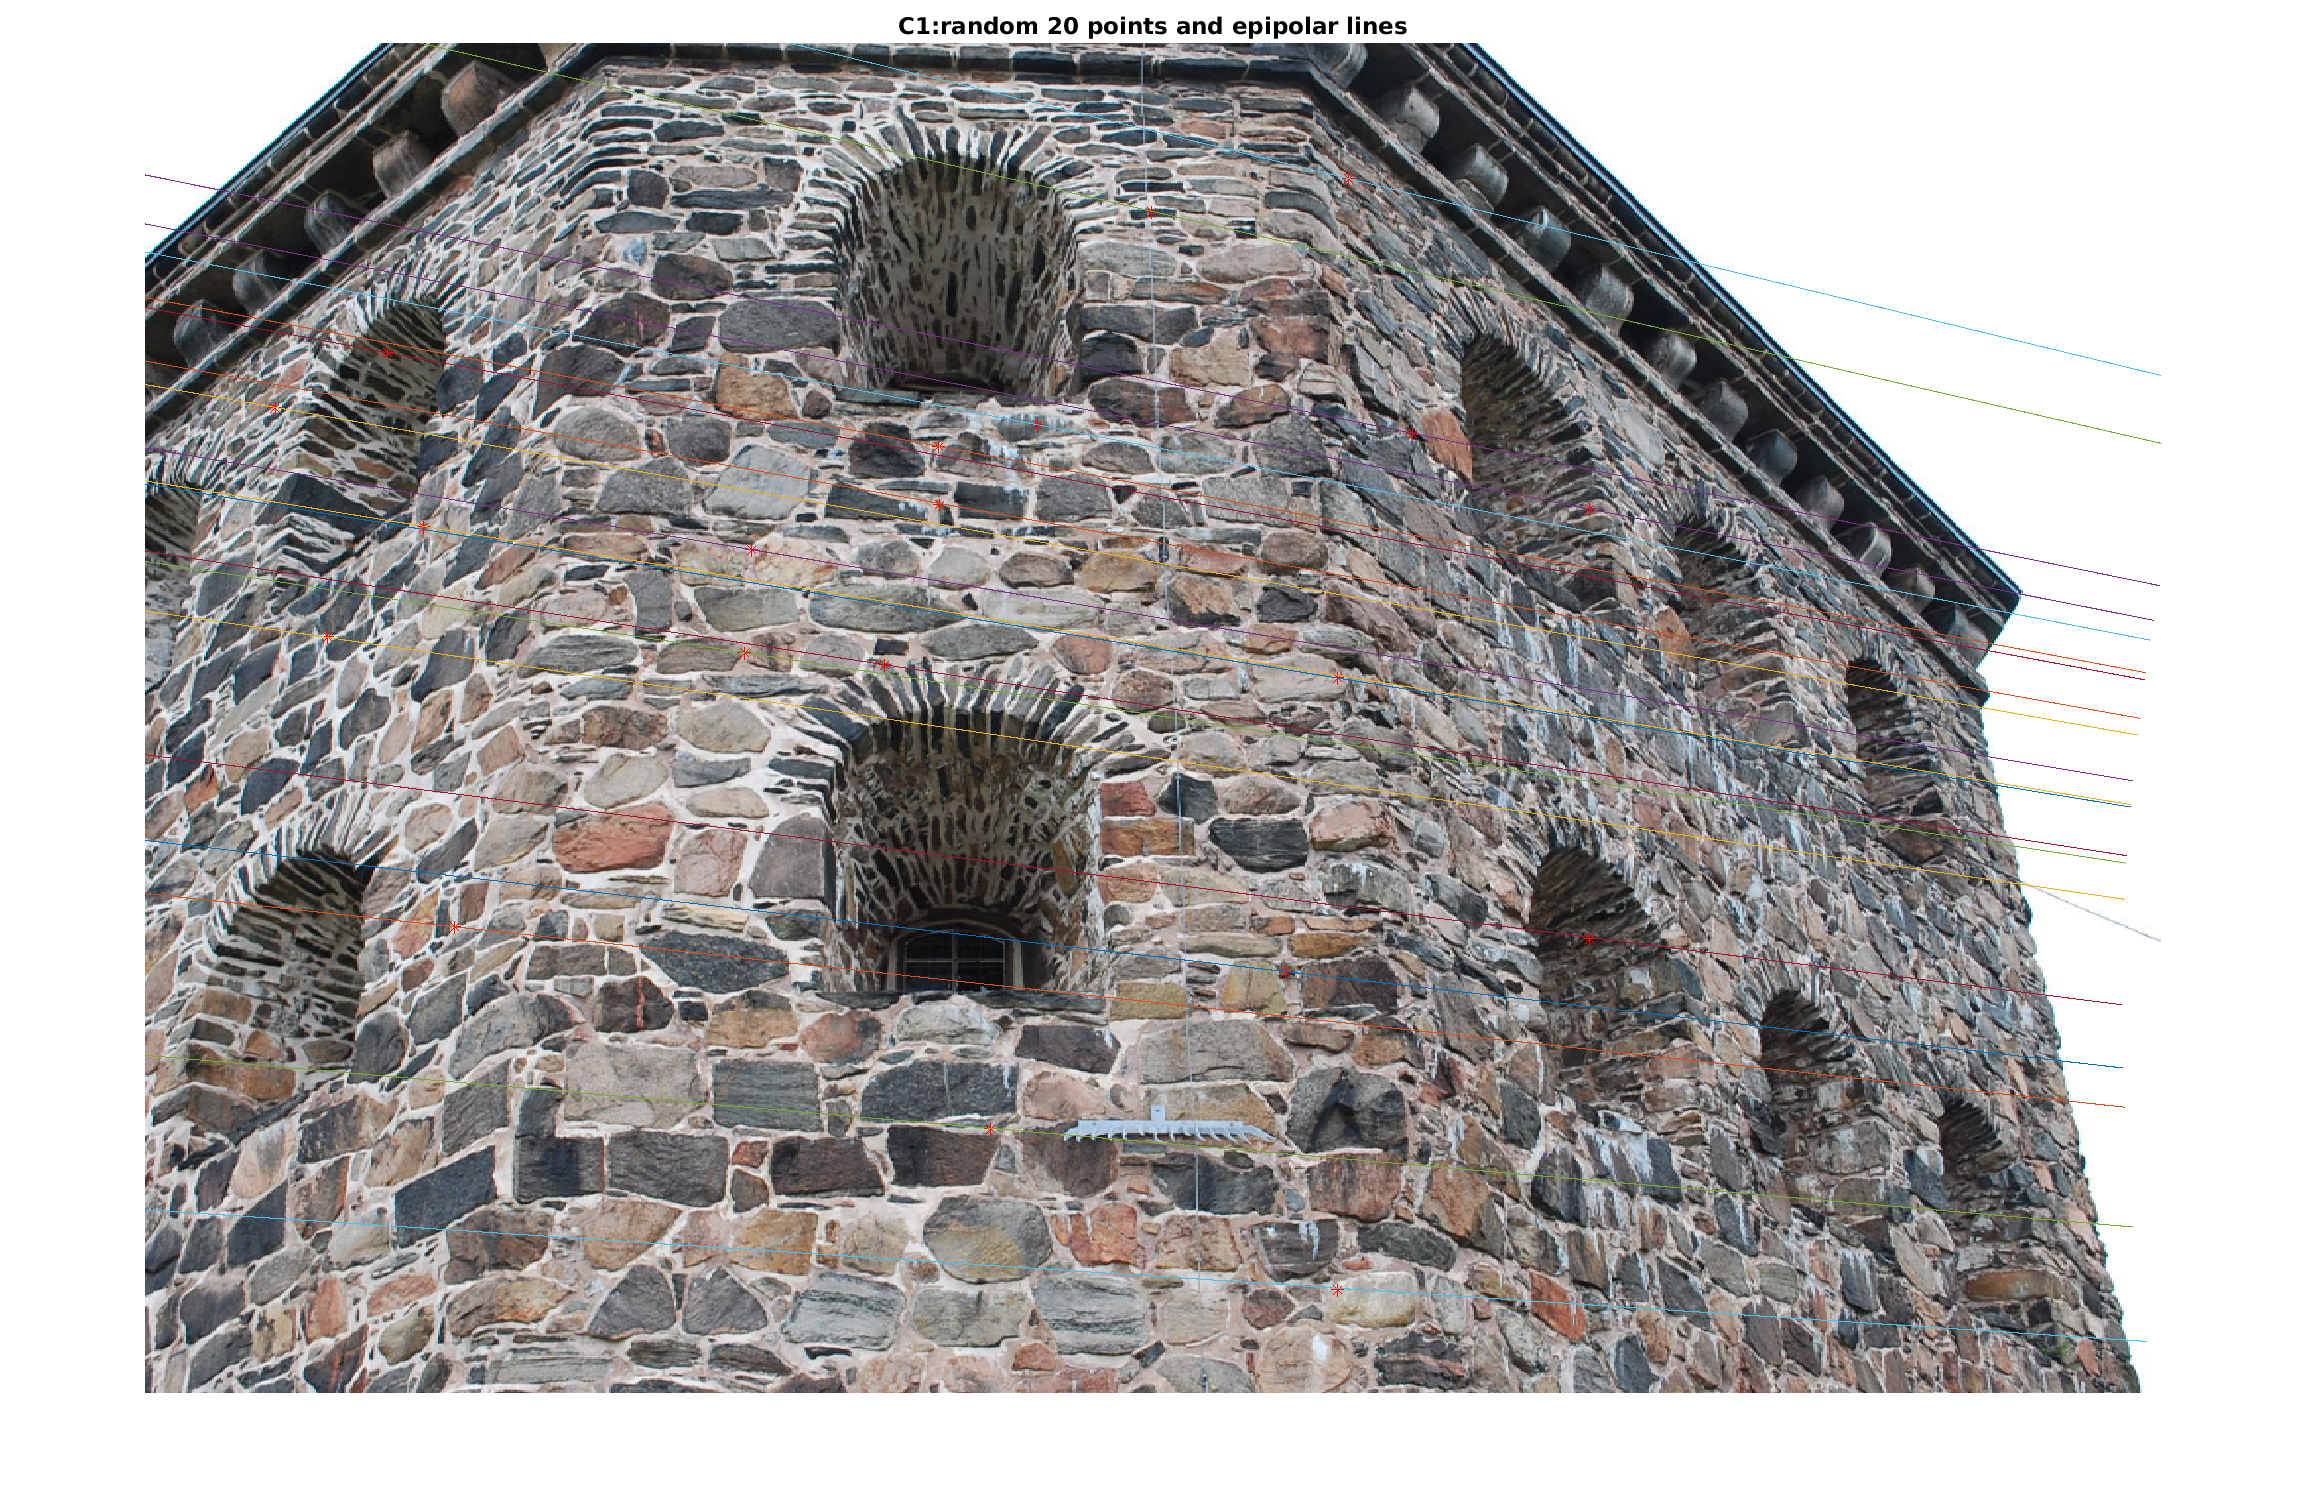
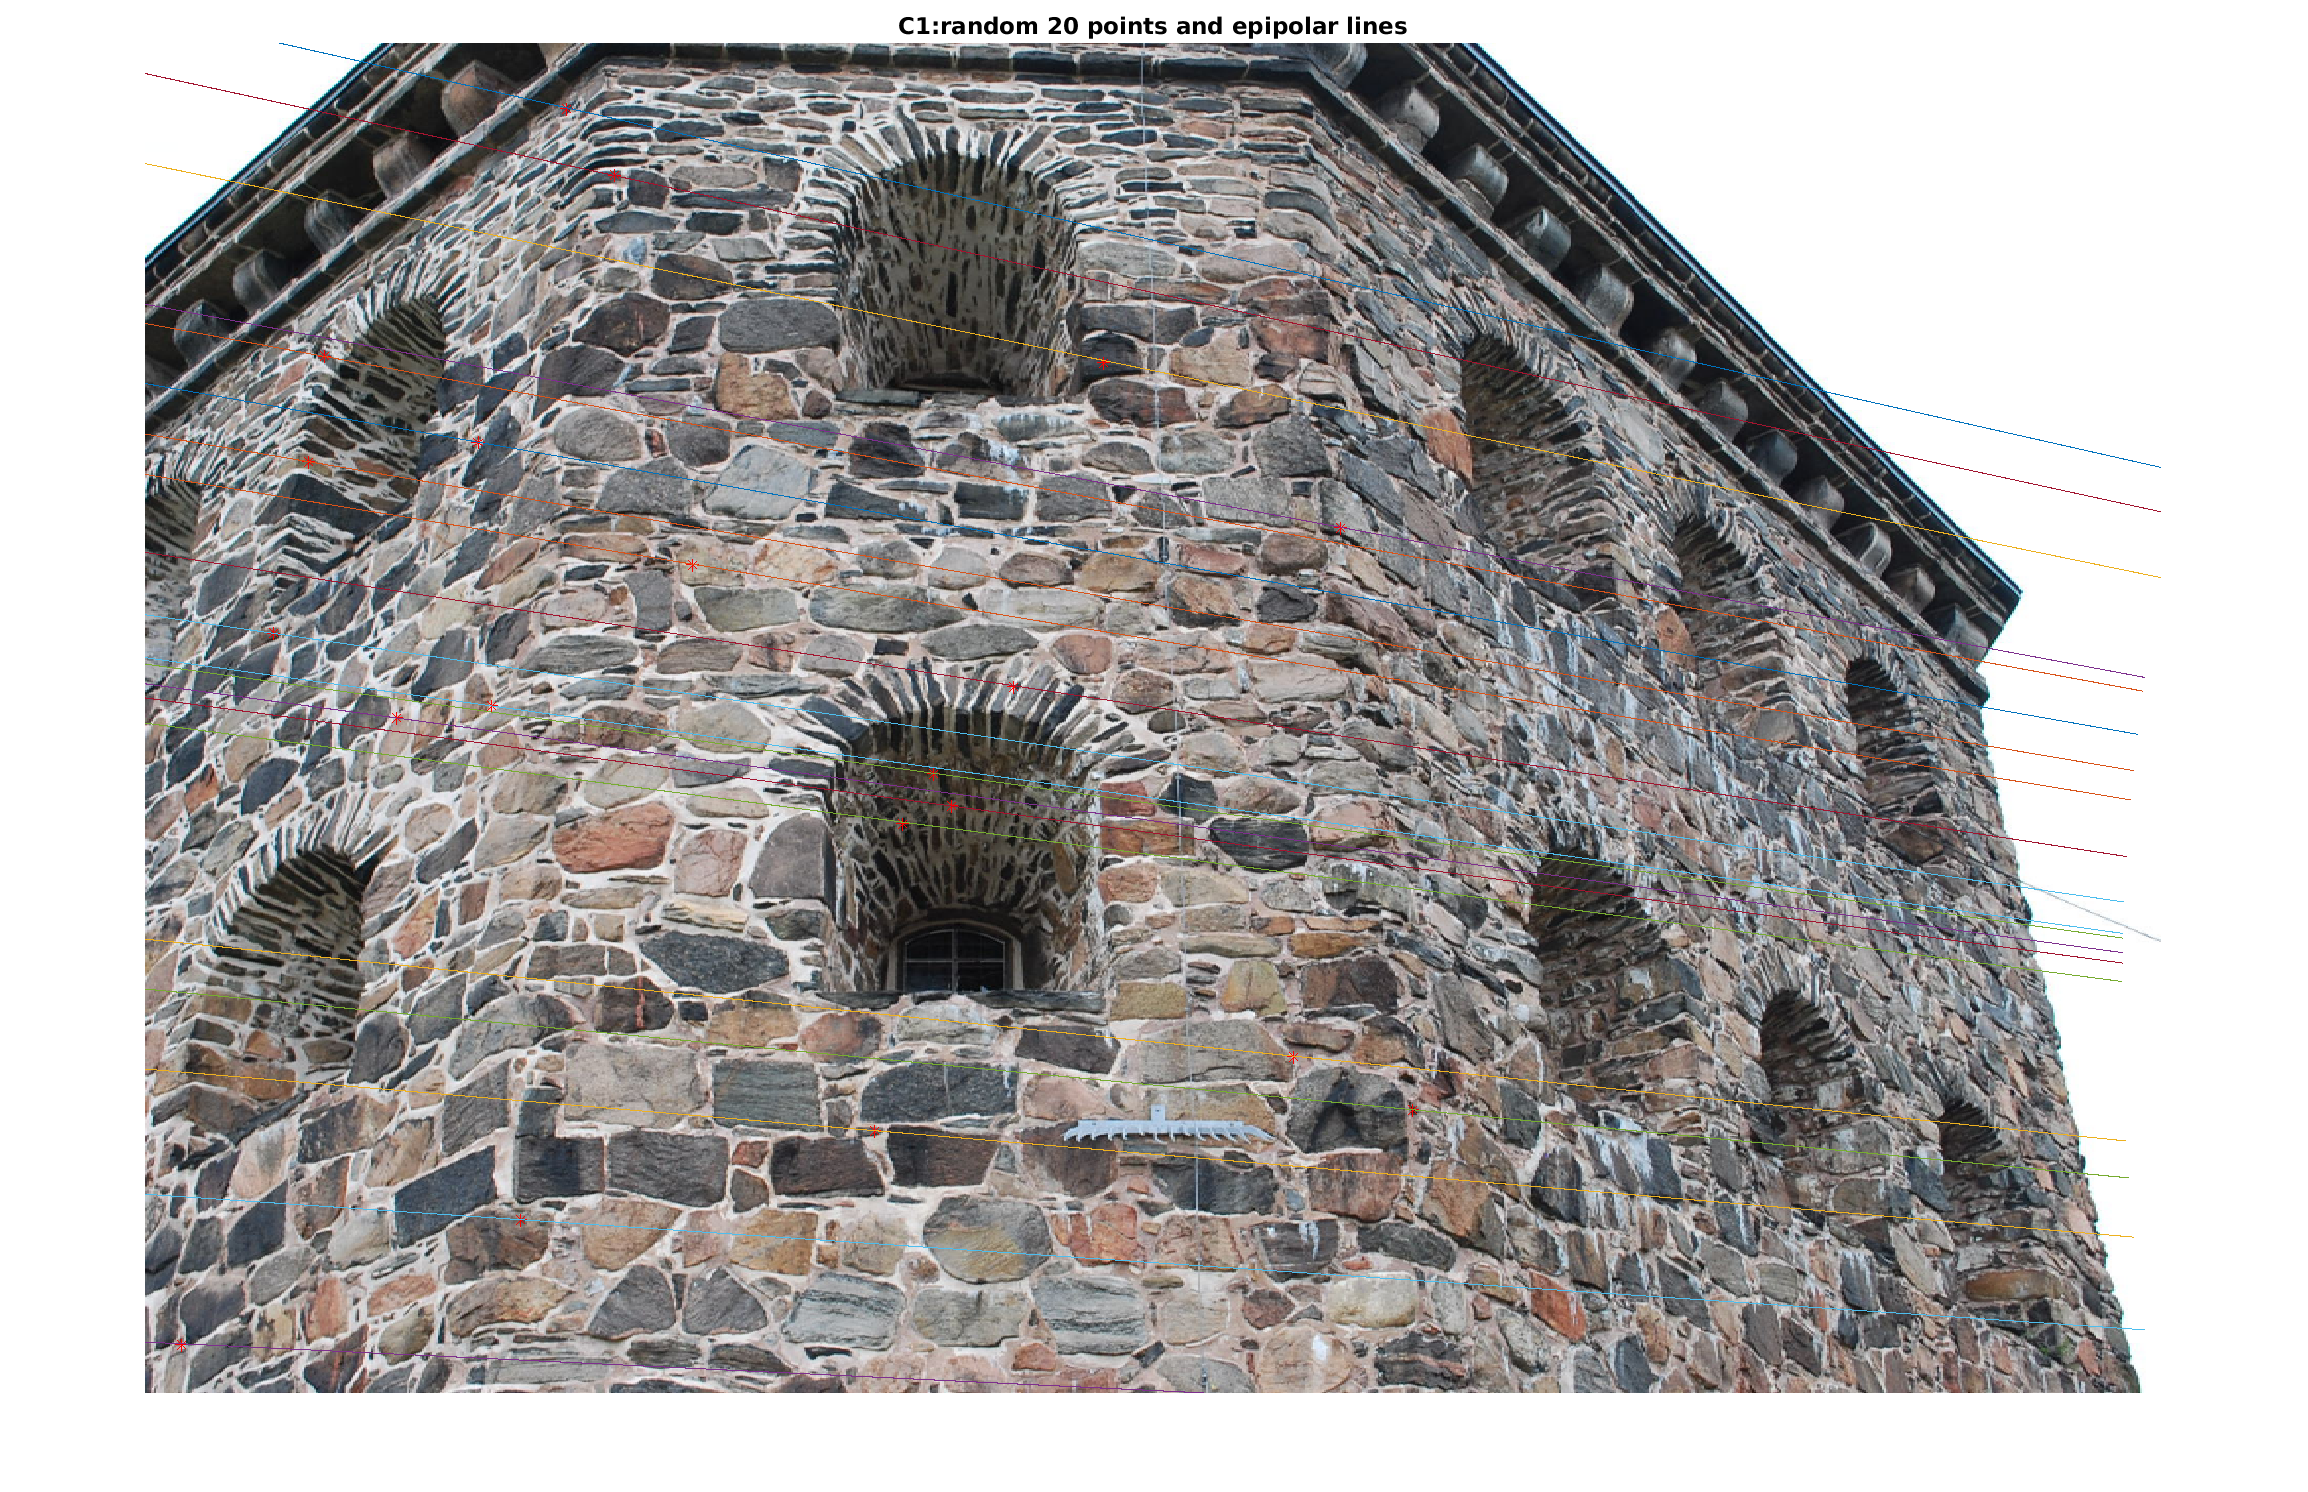
update computer exercise 3

Changed region(s): [[0.5615, 0.3391, 0.5927, 0.37], [0.1248, 0.2158, 0.156, 0.2466]]

diff --git a/assignment/A3/run2.m b/assignment/A3/run2.m
@@ -15,10 +15,14 @@ img_2 = imread('data/kronan2.JPG');
 N_1 = inv(K)
 N_2 = inv(K)
 
+% N_1 = buildN(x{1})
+% N_2 = buildN(x{2})
 
-% normalize x with N1 and N2
+
+% 
+% % normalize x with N1 and N2
 x_1_n = N_1 * x{1};
-x_2_n = N_1 * x{1};
+x_2_n = N_2 * x{2};
 
 % debug code start
 mean_before = mean(x{1}(1:2,:),2)
@@ -35,6 +39,7 @@ sqare_norm_Mv= norm(M*V(:,end)).^2
 det_E_n = det(E_n)
 
 bE_n = enforce_essential(E_n);
+%bE_n = enforce_fundamental(E_n);
 
 det_bE_n = det(bE_n)
 
@@ -43,9 +48,10 @@ title("C2:x_{2_n}E_n'x_{1_n}");
 saveas(gcf,"c2_1.png");
 
 % compute the un_normalized fundamental matrix F
-F = N_2'*bE_n*N_1
+F = convert_E_to_F(bE_n,K,K);
+%F = N_2'*bE_n*N_1;
 plot(diag(x{2}'*F*x{1}));
-title("C1:x_{2}F'x_{1}");
+title("C2:x_{2}F'x_{1}");
 saveas(gcf,"c2_2.png");
 
 l = F*x{1};
@@ -56,7 +62,7 @@ hold on
 plot(x{2}(1,random_index),x{2}(2,random_index), '*', 'Color','r');
 rital(l(:,random_index));
 hold off
-title("C1:random 20 points and epipolar lines");
+title("C2:random 20 points and epipolar lines");
 saveas(gcf,"c2_3.png");
 
 % compute error and plot in a historgram
@@ -64,6 +70,7 @@ errors_n = compute_epipolar_errors(F,x{1},x{2});
 
 mean_error_n = mean(errors_n)
 hist(errors_n,100);
-title("C1: distance between all the points and their corresponding epipolar lines");
+title("C2: distance between all the points and their corresponding epipolar lines");
 saveas(gcf,"c2_4.png");
 
+save("bE_n.mat","bE_n");

diff --git a/assignment/A3/run3.m b/assignment/A3/run3.m
@@ -1,0 +1,48 @@
+clear
+close all
+clc
+
+addpath ./data/
+addpath ./code/
+
+load data/compEx1data.mat
+load data/compEx2data.mat
+% load E we get from run2.m
+load bE_n.mat
+
+img_1= imread("data/kronan1.JPG");
+img_2 = imread('data/kronan2.JPG');
+
+x_1_n = inv(K)*x{1};
+x_2_n = inv(K)*x{2};
+
+% x_1_n = x{1};
+% x_2_n = x{2};
+
+P_2s = extract_P_from_E(bE_n);
+
+P_1 = [diag([1 1 1]) [0 0 0]']
+
+P_2 = P_2s{4};
+X = [];
+for i= 1: size(x_1_n,2)
+    X_i = triangulate_3D_point_DLT(x_1_n(:,i),x_2_n(:,i),P_1,P_2);
+    X = [X X_i];
+end
+X=pflat(X);
+
+plot3(X(1,:),X(2,:),X(3,:),'.' ,'color', 'g', 'MarkerSize',4);
+hold on
+plotcams({P_1});
+plotcams({P_2});
+hold off
+axis equal
+
+
+P_2_dn= K*P_2;
+project_and_plot(P_2_dn,X,img_2);
+hold on
+plot(x{2}(1,1:end),x{2}(2,1:end), 'o', 'Color','b');
+hold off
+
+errors=eRMS(pflat(P_2_dn*X),x{2})

diff --git a/assignment/A3/code/triangulate_3D_point_DLT.m b/assignment/A3/code/triangulate_3D_point_DLT.m
@@ -1,0 +1,18 @@
+function X = triangulate_3D_point_DLT(x1,x2,P1,P2)
+%TRIANGULATE_3D_POINT_DLT Summary of this function goes here
+    % build M
+    M = [
+        P1(1,:) - x1(1)*P1(3,:); ...
+        P1(2,:) - x1(2)*P1(3,:); ...
+        P2(1,:) - x2(1)*P2(3,:); ...
+        P2(2,:) - x2(2)*P2(3,:);
+        ];
+    % SVD 
+    [U,S,V] = svd(M);
+    X= V(:,end);
+
+    % show the ||MX||, for debug
+%     norm_M =  (M*X)'*M*X
+%     norm_X = X'*X
+end
+

diff --git a/assignment/A3/code/extract_P_from_E.m b/assignment/A3/code/extract_P_from_E.m
@@ -1,0 +1,16 @@
+function P2cell = extract_P_from_E(E)
+%EXTRACT_P_FROM_E Summary of this function goes here
+%   Detailed explanation goes here
+    [U S V] = svd(E);
+    if det(U*V') < 0
+        V=-V;
+    end 
+    u_3 = U(:,3);
+    W=[0 -1 0; 1 0 0; 0 0 1;];
+    P1=[U*W*V' u_3];
+    P2=[U*W*V' -u_3];
+    P3=[U*W'*V' u_3];
+    P4=[U*W'*V' -u_3];
+    P2cell = {P1,P2,P3,P4};
+end
+

diff --git a/assignment/A3/code/enforce_essential.m b/assignment/A3/code/enforce_essential.m
@@ -2,11 +2,9 @@ function bE = enforce_essential(E)
 %ENFORCE_FUNDAMENTAL Summary of this function goes here
 %   Detailed explanation goes here
     [U,S,V] = svd(E);
-    s= (S(1,1)+S(2,2))/2;
-    S= diag([s s 0]);
     if det(U*V') < 0
         V=-V;
     end 
-    bE= U*S*V';
+    bE= U*diag([1 1 0])*V';
 end
 

diff --git a/assignment/A3/code/project_and_plot.m b/assignment/A3/code/project_and_plot.m
@@ -1,0 +1,14 @@
+function project_and_plot(P,X, image)
+%PROJECT_AND_PLOT Summary of this function goes here
+%   Detailed explanation goes here
+
+x_p = P*X;
+% flatten x1_p
+x_p_f = x_p ./ x_p(end,:);
+
+imshow(image);
+hold on 
+plot(x_p_f(1,:), x_p_f(2,:),'+', 'Markersize', 3, 'color', 'r');
+hold off
+end
+

diff --git a/assignment/A3/code/eRMS.m b/assignment/A3/code/eRMS.m
@@ -1,0 +1,6 @@
+function error = eRMS(x1,x2)
+%ERMS Summary of this function goes here
+%   Detailed explanation goes here
+    error = sqrt(norm(x2-x1,'fro').^2/size(x1,2));
+end
+

diff --git a/assignment/A3/code/convert_E_to_F.m b/assignment/A3/code/convert_E_to_F.m
@@ -1,0 +1,6 @@
+function F = convert_E_to_F(E,K_1,K_2)
+%CONVERT_E_TO_F Summary of this function goes here
+%   Detailed explanation goes here
+    F = inv(K_2)'*E*inv(K_1);
+end
+
